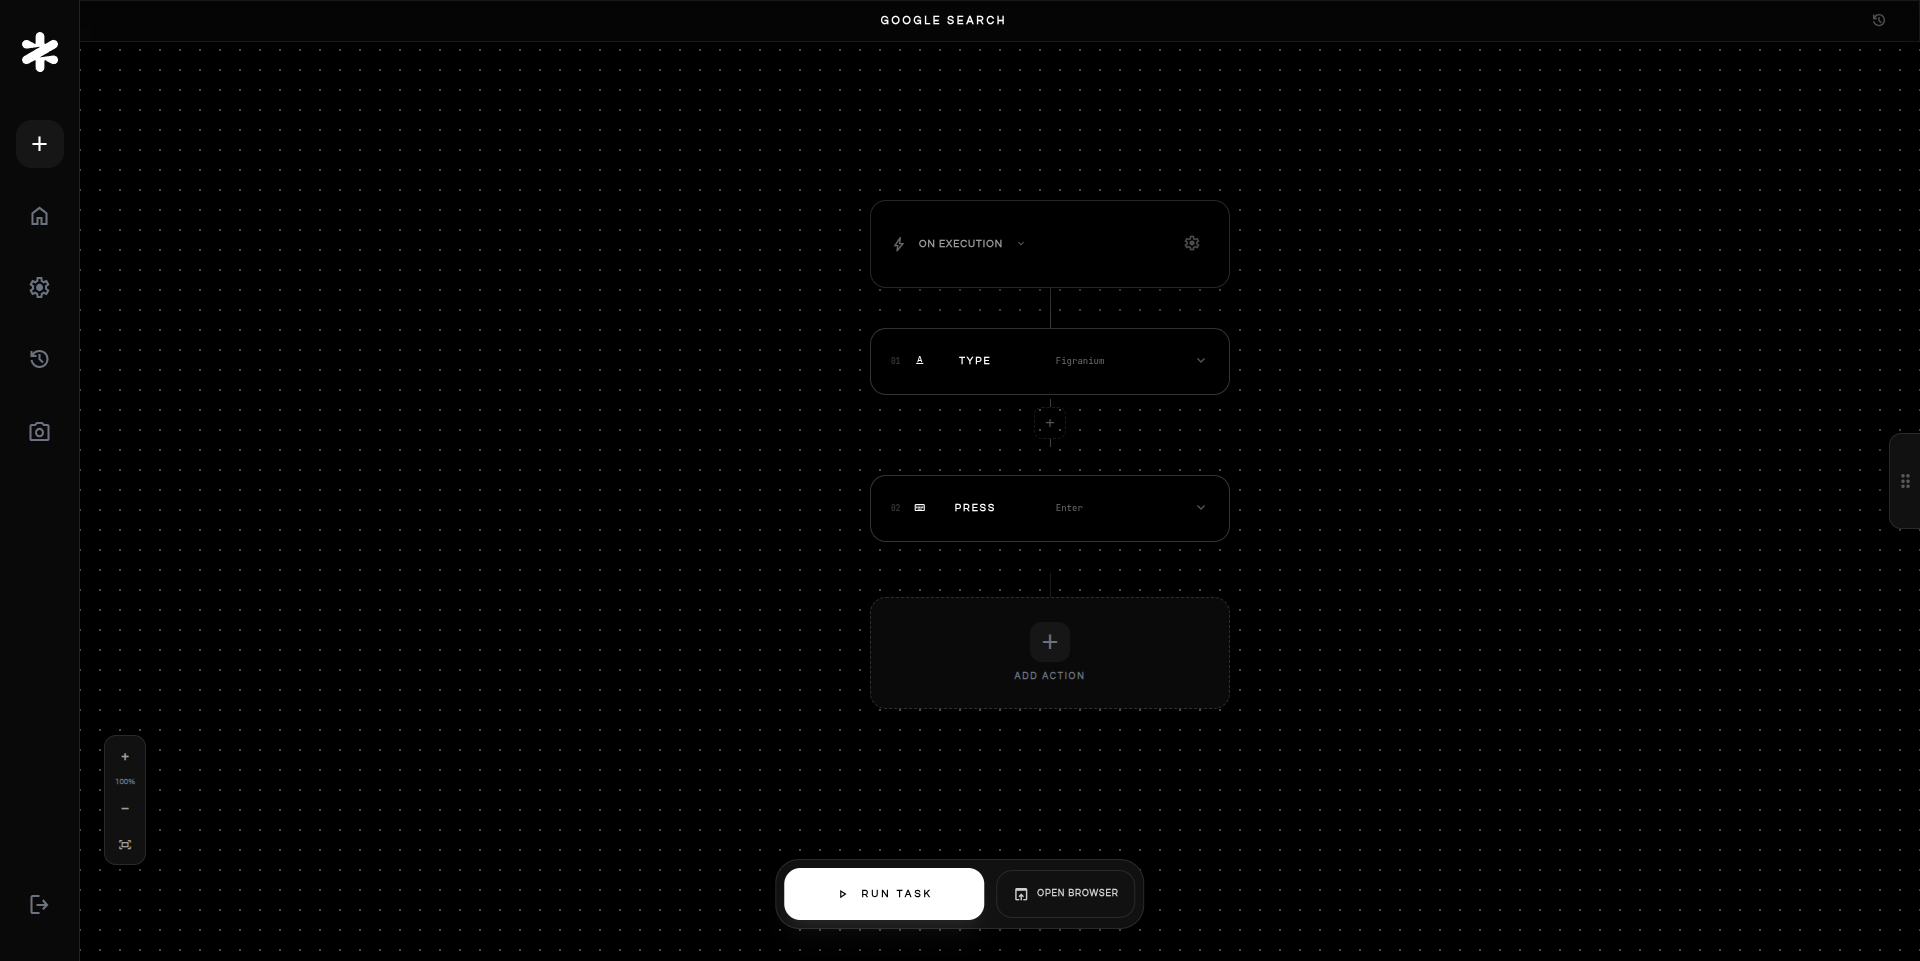
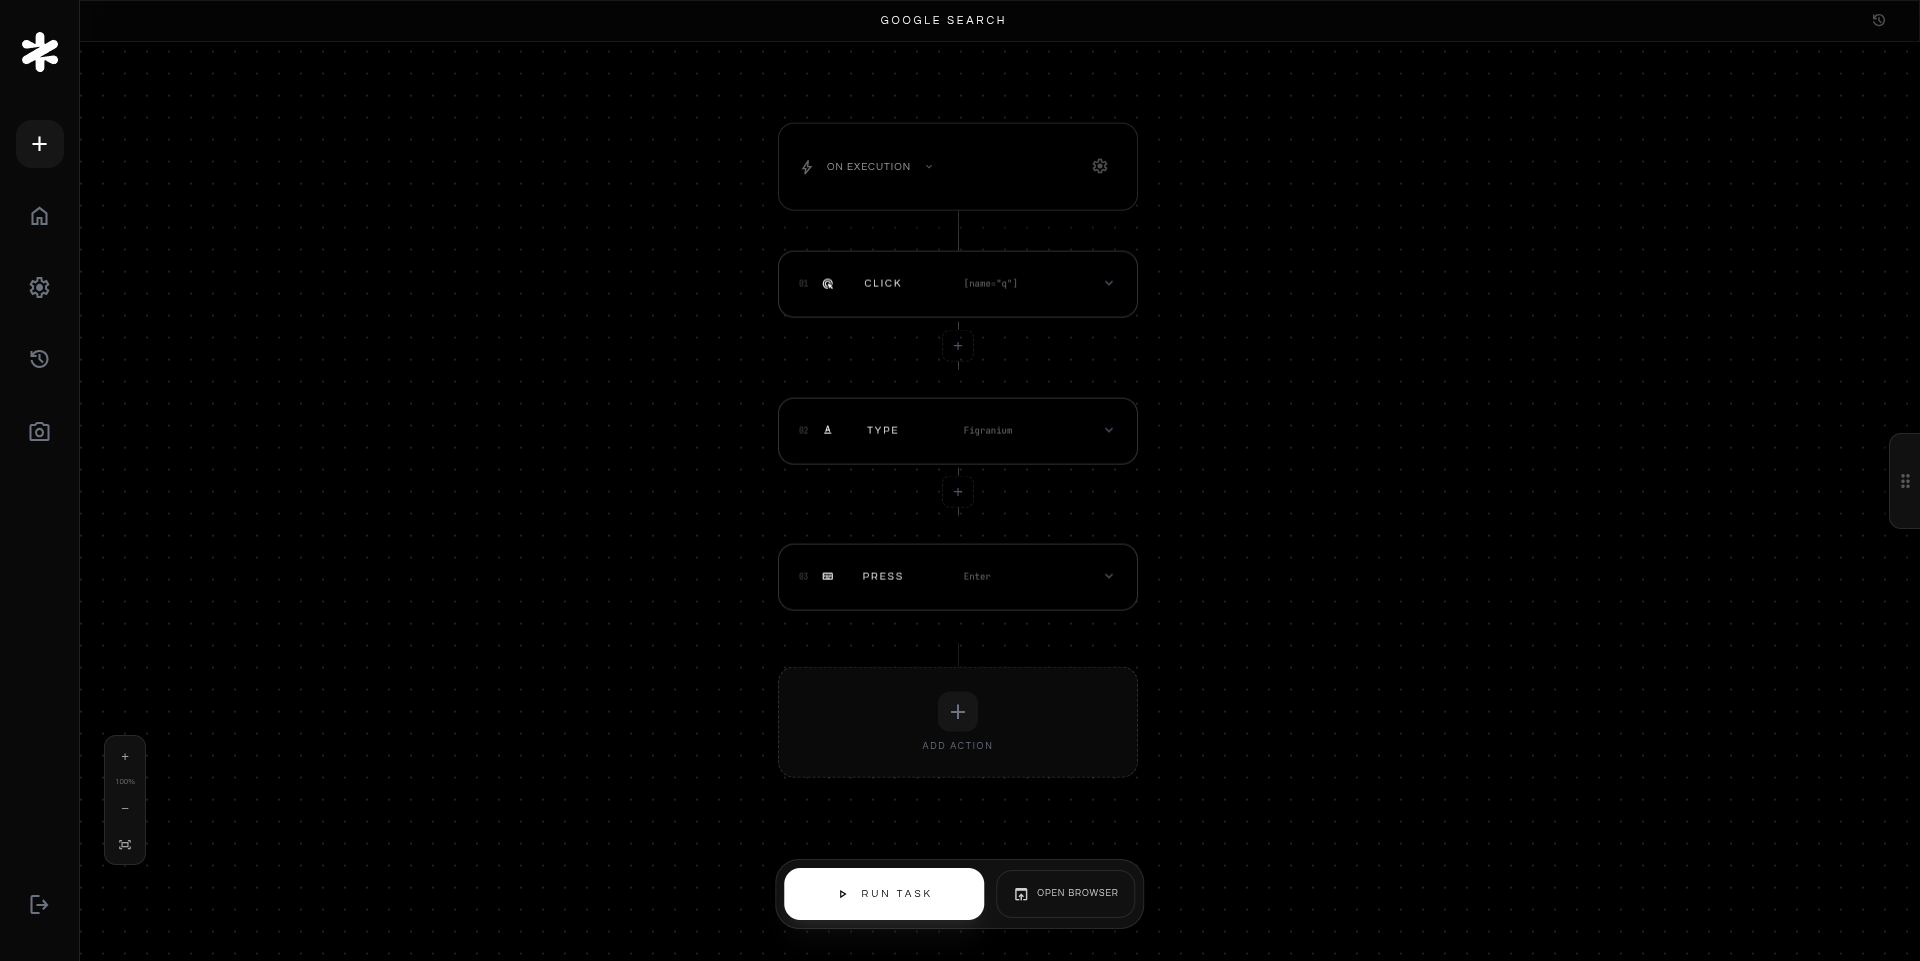
Lower canvas dot contrast

diff --git a/src/components/editor/CanvasView.tsx b/src/components/editor/CanvasView.tsx
@@ -284,7 +284,7 @@ const CanvasView: React.FC<CanvasViewProps> = ({
             <div
                 className="absolute inset-0 pointer-events-none z-0"
                 style={{
-                    backgroundImage: `radial-gradient(circle, rgba(255,255,255,0.3) 0.8px, transparent 0)`,
+                    backgroundImage: `radial-gradient(circle, rgba(255,255,255,0.12) 0.8px, transparent 0)`,
                     backgroundSize: `${22 * canvasScale}px ${22 * canvasScale}px`,
                     backgroundPosition: `${canvasOffset.x}px ${canvasOffset.y}px`,
                 }}

diff --git a/CLAUDE.md b/CLAUDE.md
@@ -110,7 +110,7 @@ Tailor the list to what was actually touched — don't list every item for every
 
 ## Finalize Convention
 
-When the user says to **finalize** after a task is complete, stage the relevant changed files and create a commit with an appropriate message.
+When the user says to **finalize** after a task is complete, stage **all** modified files using `git add .` (not just the files Claude edited — the user may have made background changes) and create a commit with an appropriate message.
 
 ## Key Environment Variables
 
